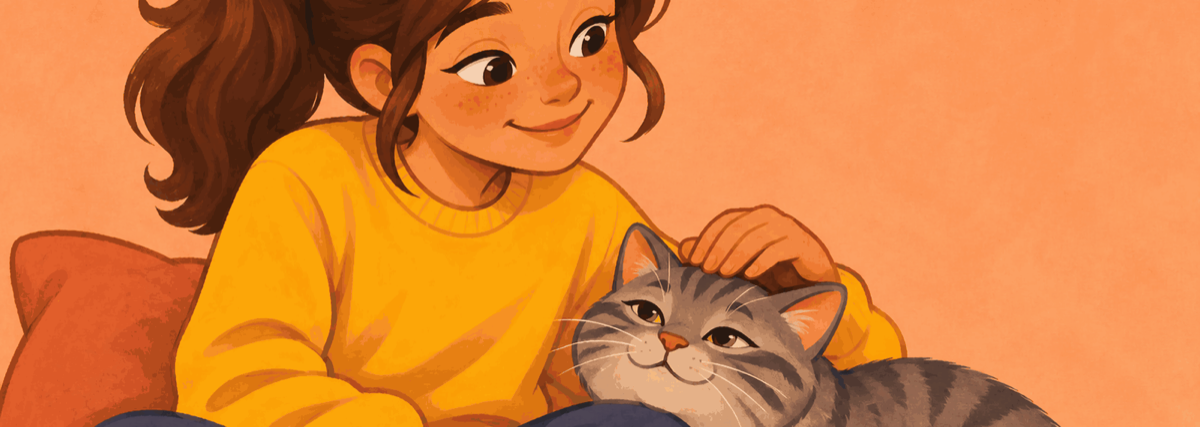
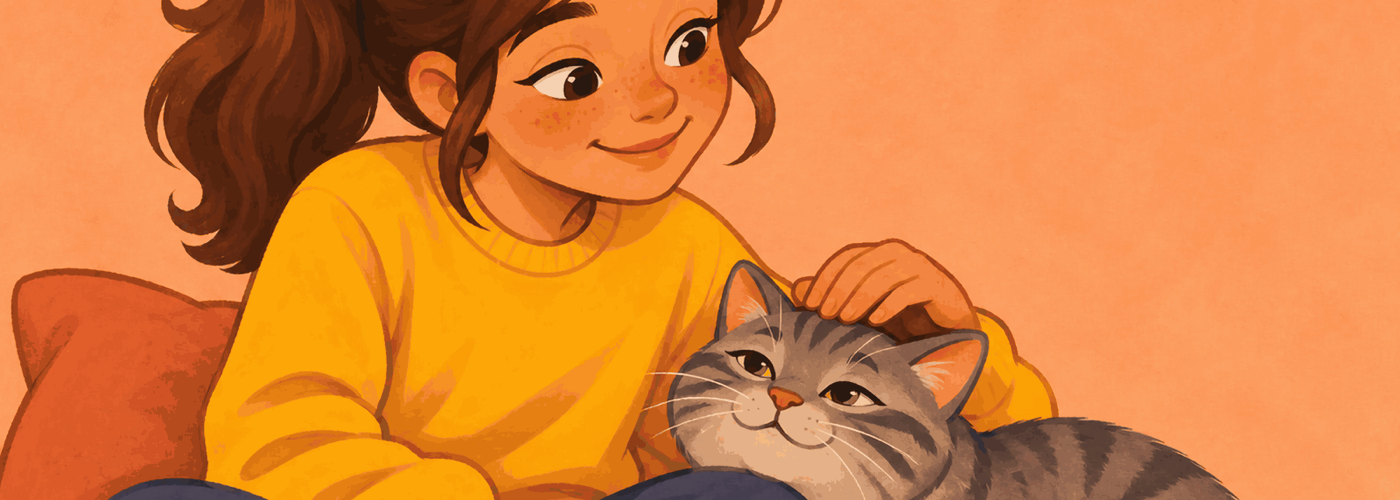
fix(w26): la portada de la tarjeta de curso tiene proporción fija 14:5, sin franjas
Con alto fijo (128 px) y ancho variable ninguna imagen llenaba la tarjeta a todos los anchos. Con 14:5 una portada de esa
proporción la llena siempre y las demás se siguen viendo enteras; a 360 px de ancho mide lo mismo que antes. La portada del
curso de prueba queda en 1400×500.

diff --git a/frontend/src/app/shared/components/course-card/course-card.component.scss b/frontend/src/app/shared/components/course-card/course-card.component.scss
@@ -14,7 +14,7 @@
 }
 
 .course-card__cover {
-  height: 128px;
+  aspect-ratio: 14 / 5; // proporción de portada recomendada: una imagen 14:5 llena la tarjeta a cualquier ancho (a 360 px mide 128 px)
   background: var(--color-section-tint);
 
   img {
